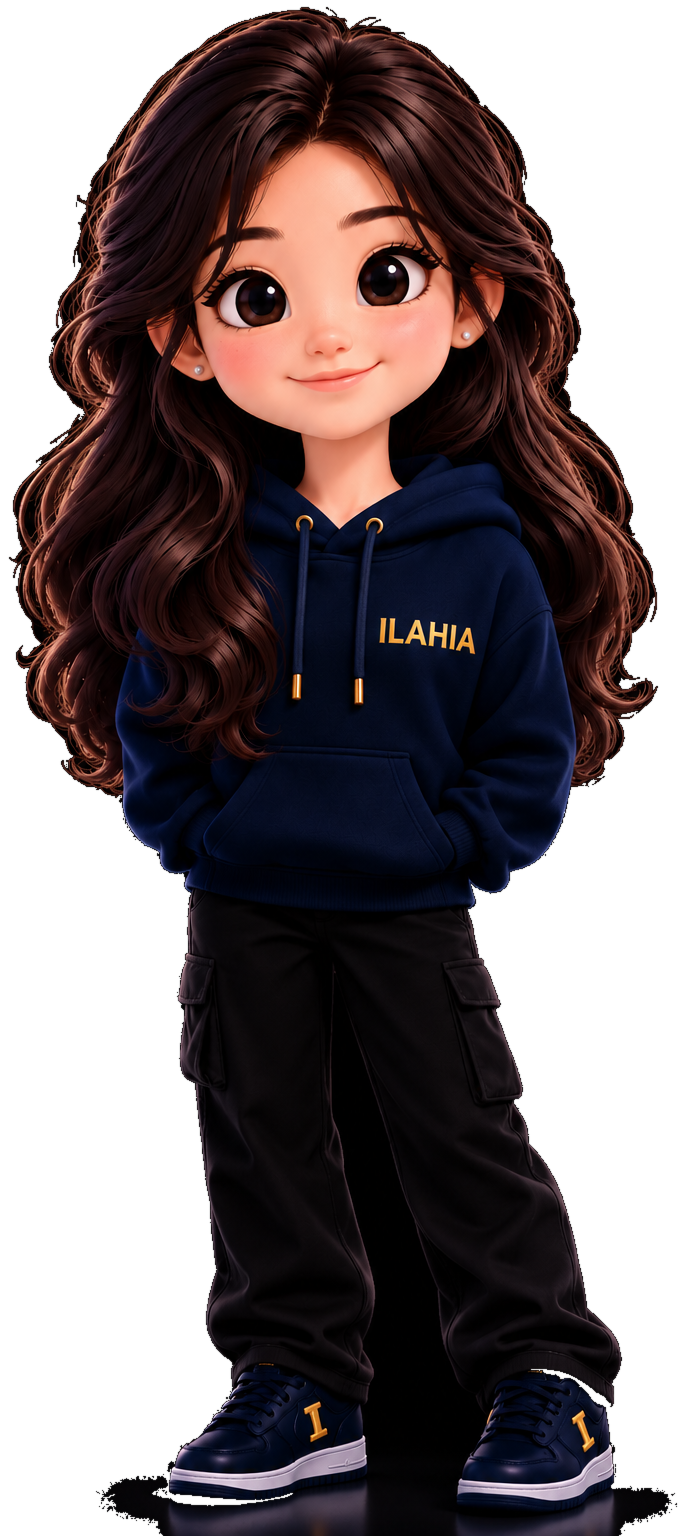
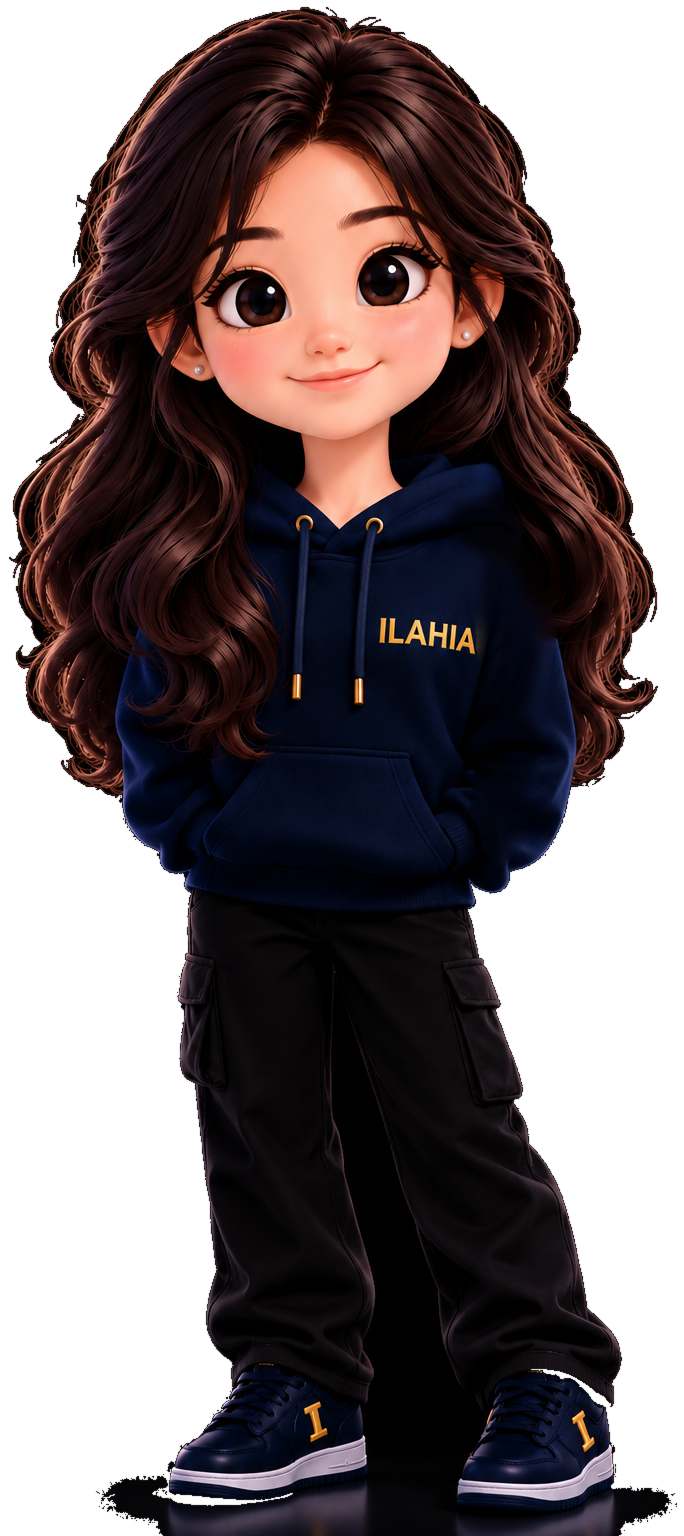
Connect mascot moods and waving hoodie arm

Changed region(s): [[0.6754, 0.3125, 0.8289, 0.4375], [0.6754, 0.4688, 0.7675, 0.5625]]

diff --git a/1 index.html b/1 index.html
@@ -72,6 +72,19 @@
         @keyframes ilahia-comfort-arm { 0%,100% { transform:rotate(0deg); } 50% { transform:rotate(-2deg); } }
         @keyframes ilahia-mascot-blink { 0%,91%,100% { opacity:0; } 92.5%,95% { opacity:1; } }
         @media (prefers-reduced-motion:reduce) { .mila-wave-arm,.mila-wave-hand,.mila-blink-overlay { animation:none !important; } }
+        .mila-expression-sprite { display:none; position:absolute; inset:0; width:100%; height:100%; object-fit:contain; pointer-events:none; }
+        #trustMascotMover.is-sprite-emotion .mila-animation-stage { width:min(6.7rem,27vw); height:10.05rem; }
+        #trustMascotMover.is-sprite-emotion .trust-mascot-character,#trustMascotMover.is-sprite-emotion .mila-arm-overlay,#trustMascotMover.is-sprite-emotion .mila-blink-overlay { display:none; }
+        #trustMascotMover[data-expression="happy"] .mila-expression-happy,#trustMascotMover[data-expression="curious"] .mila-expression-curious,#trustMascotMover[data-expression="sad"] .mila-expression-sad,#trustMascotMover[data-expression="angry"] .mila-expression-angry { display:block; }
+        #trustMascotMover[data-expression="happy"] .mila-expression-happy { animation:mila-sprite-celebrate 1.35s ease-in-out infinite; }
+        #trustMascotMover[data-expression="curious"] .mila-expression-curious { animation:mila-sprite-curious 2s ease-in-out infinite; }
+        #trustMascotMover[data-expression="sad"] .mila-expression-sad { animation:mila-sprite-comfort 2.8s ease-in-out infinite; }
+        #trustMascotMover[data-expression="angry"] .mila-expression-angry { animation:mila-sprite-frustrated .52s ease-in-out 3; }
+        @keyframes mila-sprite-celebrate { 0%,100% { transform:translateY(0) rotate(0); } 25% { transform:translateY(-3px) rotate(-1.7deg); } 52% { transform:translateY(0) rotate(1.7deg); } 76% { transform:translateY(-2px) rotate(-.8deg); } }
+        @keyframes mila-sprite-curious { 0%,100% { transform:rotate(0); } 28%,68% { transform:rotate(-1.8deg) translateY(-1px); } 45% { transform:rotate(1.2deg); } }
+        @keyframes mila-sprite-comfort { 0%,100% { transform:translateY(0) rotate(0); } 50% { transform:translateY(2px) rotate(1deg); } }
+        @keyframes mila-sprite-frustrated { 0%,100% { transform:translateX(0) rotate(0); } 25% { transform:translateX(-1.5px) rotate(-.6deg); } 75% { transform:translateX(1.5px) rotate(.6deg); } }
+        @media (prefers-reduced-motion:reduce) { .mila-expression-sprite { animation:none !important; } }
         .nila-standing-legs { pointer-events:none; }
         .nila-thinking-mark { display:none; transform-box:fill-box; transform-origin:center; }
         .nila-face-mood { display:none; pointer-events:none; transform-box:view-box; transform-origin:59.4% 20.8%; transform:scale(1.35); }
@@ -352,13 +365,18 @@
                         <div id="trustMascotMover" tabindex="0" role="button" aria-label="Open Mila’s campus chat" title="Open Mila’s campus chat">
                             <div class="mila-animation-stage" aria-label="Mila, Ilahia campus companion">
                                 <img class="trust-mascot-character" src="assets/mascots/ilahia-goldhoodie.png" alt="Mila wearing the Ilahia navy and gold hoodie" loading="eager" decoding="async">
+                                <img class="mila-expression-sprite mila-expression-happy" src="assets/mascots/emotions/mila-happy.webp" alt="" aria-hidden="true" loading="eager" decoding="async">
+                                <img class="mila-expression-sprite mila-expression-curious" src="assets/mascots/emotions/mila-curious.webp" alt="" aria-hidden="true" loading="eager" decoding="async">
+                                <img class="mila-expression-sprite mila-expression-sad" src="assets/mascots/emotions/mila-sad.webp" alt="" aria-hidden="true" loading="eager" decoding="async">
+                                <img class="mila-expression-sprite mila-expression-angry" src="assets/mascots/emotions/mila-angry.webp" alt="" aria-hidden="true" loading="eager" decoding="async">
                                 <svg class="mila-arm-overlay" viewBox="0 0 684 1508" aria-hidden="true" focusable="false">
                                   <defs><linearGradient id="mila-wave-sleeve" x1="0" y1="0" x2="1" y2="1"><stop stop-color="#172744"/><stop offset=".55" stop-color="#0b1730"/><stop offset="1" stop-color="#26385a"/></linearGradient><linearGradient id="mila-wave-skin" x1="0" y1="0" x2=".9" y2="1"><stop stop-color="#ffd8c5"/><stop offset=".55" stop-color="#f5b69d"/><stop offset="1" stop-color="#e9987f"/></linearGradient></defs>
                                   <g class="mila-wave-arm">
                                     <path d="M482 480 C514 457 548 450 572 422 C592 398 604 371 614 347 L644 363 C636 403 624 436 604 466 C582 498 552 523 518 538 L492 522 Z" fill="url(#mila-wave-sleeve)" stroke="#081226" stroke-width="7" stroke-linejoin="round"/>
-                                    <path d="M605 363 Q615 347 610 330 L602 309 Q598 299 605 295 Q613 292 619 304 L626 322 L624 293 Q624 283 633 282 Q642 283 643 295 L647 321 L653 300 Q657 291 665 296 Q671 301 667 311 L659 339 Q654 362 638 378 Q623 389 610 379Z" fill="url(#mila-wave-skin)" stroke="#cf846e" stroke-width="4" stroke-linejoin="round"/>
+                                    <g class="mila-wave-hand"><path d="M605 363 Q615 347 610 330 L602 309 Q598 299 605 295 Q613 292 619 304 L626 322 L624 293 Q624 283 633 282 Q642 283 643 295 L647 321 L653 300 Q657 291 665 296 Q671 301 667 311 L659 339 Q654 362 638 378 Q623 389 610 379Z" fill="url(#mila-wave-skin)" stroke="#cf846e" stroke-width="4" stroke-linejoin="round"/>
                                     <path d="M612 357 Q624 363 638 357" fill="none" stroke="#df9a82" stroke-width="3" stroke-linecap="round"/>
                                   </g>
+                                    </g>
                                 </svg>
                                 <svg class="mila-blink-overlay" viewBox="0 0 684 1508" aria-hidden="true" focusable="false">
                                   <defs><radialGradient id="mila-blink-skin" cx="44%" cy="35%" r="75%"><stop stop-color="#ffd9c6"/><stop offset=".62" stop-color="#f5b9a5"/><stop offset="1" stop-color="#efa58f"/></radialGradient></defs>
@@ -17852,6 +17870,7 @@ function findAlignmentPattern(matrix, alignmentPatternQuads, topRight, topLeft, 
   const clearIdleTimers = () => { idleTimers.forEach(clearTimeout); idleTimers = []; };
   const clearMascotMood = (restoreGreeting = true) => {
     mascot.classList.remove('is-pouting', 'is-grumpy');
+    delete mascot.dataset.expression; mascot.classList.remove('is-sprite-emotion');
     if (typeof nilaEmotionData !== 'undefined') Object.keys(nilaEmotionData).forEach(key => mascot.classList.remove('is-emotion-' + key));
     if (typeof nilaEmotionTimer !== 'undefined') clearTimeout(nilaEmotionTimer);
 
@@ -17908,12 +17927,16 @@ function findAlignmentPattern(matrix, alignmentPatternQuads, topRight, topLeft, 
     mascot.classList.remove('is-thinking', 'is-pouting', 'is-grumpy');
     clearTimeout(nilaEmotionTimer);
     mascot.classList.add('is-emotion-' + mood);
+    const spriteMood = ({ happy:'happy', excited:'happy', proud:'happy', love:'happy', shy:'happy', embarrassed:'happy', thinking:'curious', confused:'curious', surprised:'curious', sad:'sad', disappointed:'sad', scared:'sad', tired:'sad', sleepy:'sad', angry:'angry', grumpy:'angry' })[mood];
+    if (spriteMood) { mascot.dataset.expression = spriteMood; mascot.classList.add('is-sprite-emotion'); } else { delete mascot.dataset.expression; mascot.classList.remove('is-sprite-emotion'); }
+
     if (mood === 'thinking' || mood === 'confused') mascot.classList.add('is-thinking');
     if (mood === 'grumpy' || mood === 'angry') mascot.classList.add('is-grumpy');
     if (mood === 'sad' || mood === 'disappointed') mascot.classList.add('is-pouting');
     if (greeting) greeting.textContent = mood === 'happy' ? defaultGreeting : nilaBubbleLines[mood];
     nilaEmotionTimer = window.setTimeout(() => {
       mascot.classList.remove('is-emotion-' + mood, 'is-thinking', 'is-grumpy', 'is-pouting');
+      delete mascot.dataset.expression; mascot.classList.remove('is-sprite-emotion');
       if (greeting) greeting.textContent = defaultGreeting;
     }, Math.max(700, duration));
   };

diff --git a/server.js b/server.js
@@ -929,7 +929,8 @@ function serveStatic(req, res, pathname) {
   const publicFiles = new Set(['/1 index.html', '/index.html', '/!DOCTYPE html.txt', '/BACKEND-README.txt', '/canteen.html', '/canteen-admin.html', '/iti-campus.jpg', '/manifest.webmanifest', '/sw.js', '/assets/campuses/ilahia-public-school-hero.jpg', '/assets/icons/ilahia-ecosystem-logo-v5-180.png', '/assets/icons/ilahia-ecosystem-logo-v5-192.png', '/assets/icons/ilahia-ecosystem-logo-v5-512.png', '/assets/icons/ilahia-ecosystem-logo-v6-1024.png', '/assets/icons/ilahia-ecosystem-maskable-512.png', '/assets/icons/ilahia-ecosystem-logo-v6-maskable-1024.png', '/assets/icons/ilahia-ecosystem-final-transparent-4k.png', '/assets/icons/ilahia-ecosystem-appicon-final-180.png', '/assets/icons/ilahia-ecosystem-appicon-final-192.png', '/assets/icons/ilahia-ecosystem-appicon-final-512.png', '/assets/icons/ilahia-ecosystem-appicon-final-1024.png', '/assets/icons/ilahia-ecosystem-appicon-final-4k.png', '/assets/icons/ilahia-ecosystem-appicon-final-maskable-512.png', '/assets/icons/ilahia-ecosystem-appicon-i-v35-180.png', '/assets/icons/ilahia-ecosystem-appicon-i-v35-192.png', '/assets/icons/ilahia-ecosystem-appicon-i-v35-512.png', '/assets/icons/ilahia-ecosystem-appicon-i-v35-1024.png', '/assets/icons/ilahia-ecosystem-appicon-i-v35-maskable-512.png', '/assets/icons/ilahia-ecosystem-wordmark-gold.png', '/assets/icons/ilahia-ecosystem-wordmark-gold-512.webp']);
   const isLeadershipImage = /^\/assets\/leadership\/[a-z0-9-]+\.(?:jpg|jpeg|png|webp)$/i.test(requested);
   const isMascotImage = /^\/assets\/mascots\/(?:nila-student-source|ilahia-goldhoodie)\.png$/i.test(requested);
-  if (!publicFiles.has(requested) && !isLeadershipImage && !isMascotImage) {
+  const isMascotEmotionImage = /^\/assets\/mascots\/emotions\/mila-(?:happy|curious|sad|angry)\.webp$/i.test(requested);
+  if (!publicFiles.has(requested) && !isLeadershipImage && !isMascotImage && !isMascotEmotionImage) {
     sendJson(res, 404, { error: 'Not found.' });
     return;
   }
@@ -957,7 +958,7 @@ const server = http.createServer(async (req, res) => {
   if (req.method === 'GET' && pathname === '/api/health') {
     try {
       fs.accessSync(DATA_DIR, fs.constants.R_OK | fs.constants.W_OK);
-      sendJson(res, 200, { ok: true, appVersion: '2026.11.06-goldhoodie-mascot-v77' });
+      sendJson(res, 200, { ok: true, appVersion: '2026.11.06-goldhoodie-sleeve-v79' });
     } catch {
       sendJson(res, 503, { ok: false, error: 'Portal storage is unavailable.' });
     }

diff --git a/sw.js b/sw.js
@@ -1,5 +1,5 @@
-const CACHE_NAME = 'ilahia-campus-shell-v91';
-const APP_SHELL = ['/', '/canteen.html', '/canteen-admin.html', '/manifest.webmanifest', '/assets/icons/ilahia-ecosystem-appicon-i-v35-180.png', '/assets/icons/ilahia-ecosystem-appicon-i-v35-192.png', '/assets/icons/ilahia-ecosystem-appicon-i-v35-512.png', '/assets/icons/ilahia-ecosystem-appicon-i-v35-1024.png', '/assets/icons/ilahia-ecosystem-appicon-i-v35-maskable-512.png', '/assets/icons/ilahia-ecosystem-wordmark-gold-512.webp', '/assets/campuses/ilahia-public-school-hero.jpg', '/assets/mascots/ilahia-goldhoodie.png'];
+const CACHE_NAME = 'ilahia-campus-shell-v93';
+const APP_SHELL = ['/', '/canteen.html', '/canteen-admin.html', '/manifest.webmanifest', '/assets/icons/ilahia-ecosystem-appicon-i-v35-180.png', '/assets/icons/ilahia-ecosystem-appicon-i-v35-192.png', '/assets/icons/ilahia-ecosystem-appicon-i-v35-512.png', '/assets/icons/ilahia-ecosystem-appicon-i-v35-1024.png', '/assets/icons/ilahia-ecosystem-appicon-i-v35-maskable-512.png', '/assets/icons/ilahia-ecosystem-wordmark-gold-512.webp', '/assets/campuses/ilahia-public-school-hero.jpg', '/assets/mascots/ilahia-goldhoodie.png', '/assets/mascots/emotions/mila-happy.webp', '/assets/mascots/emotions/mila-curious.webp', '/assets/mascots/emotions/mila-sad.webp', '/assets/mascots/emotions/mila-angry.webp'];
 
 self.addEventListener('install', event => {
   event.waitUntil(caches.open(CACHE_NAME).then(cache => cache.addAll(APP_SHELL)).catch(() => undefined).then(() => self.skipWaiting()));
